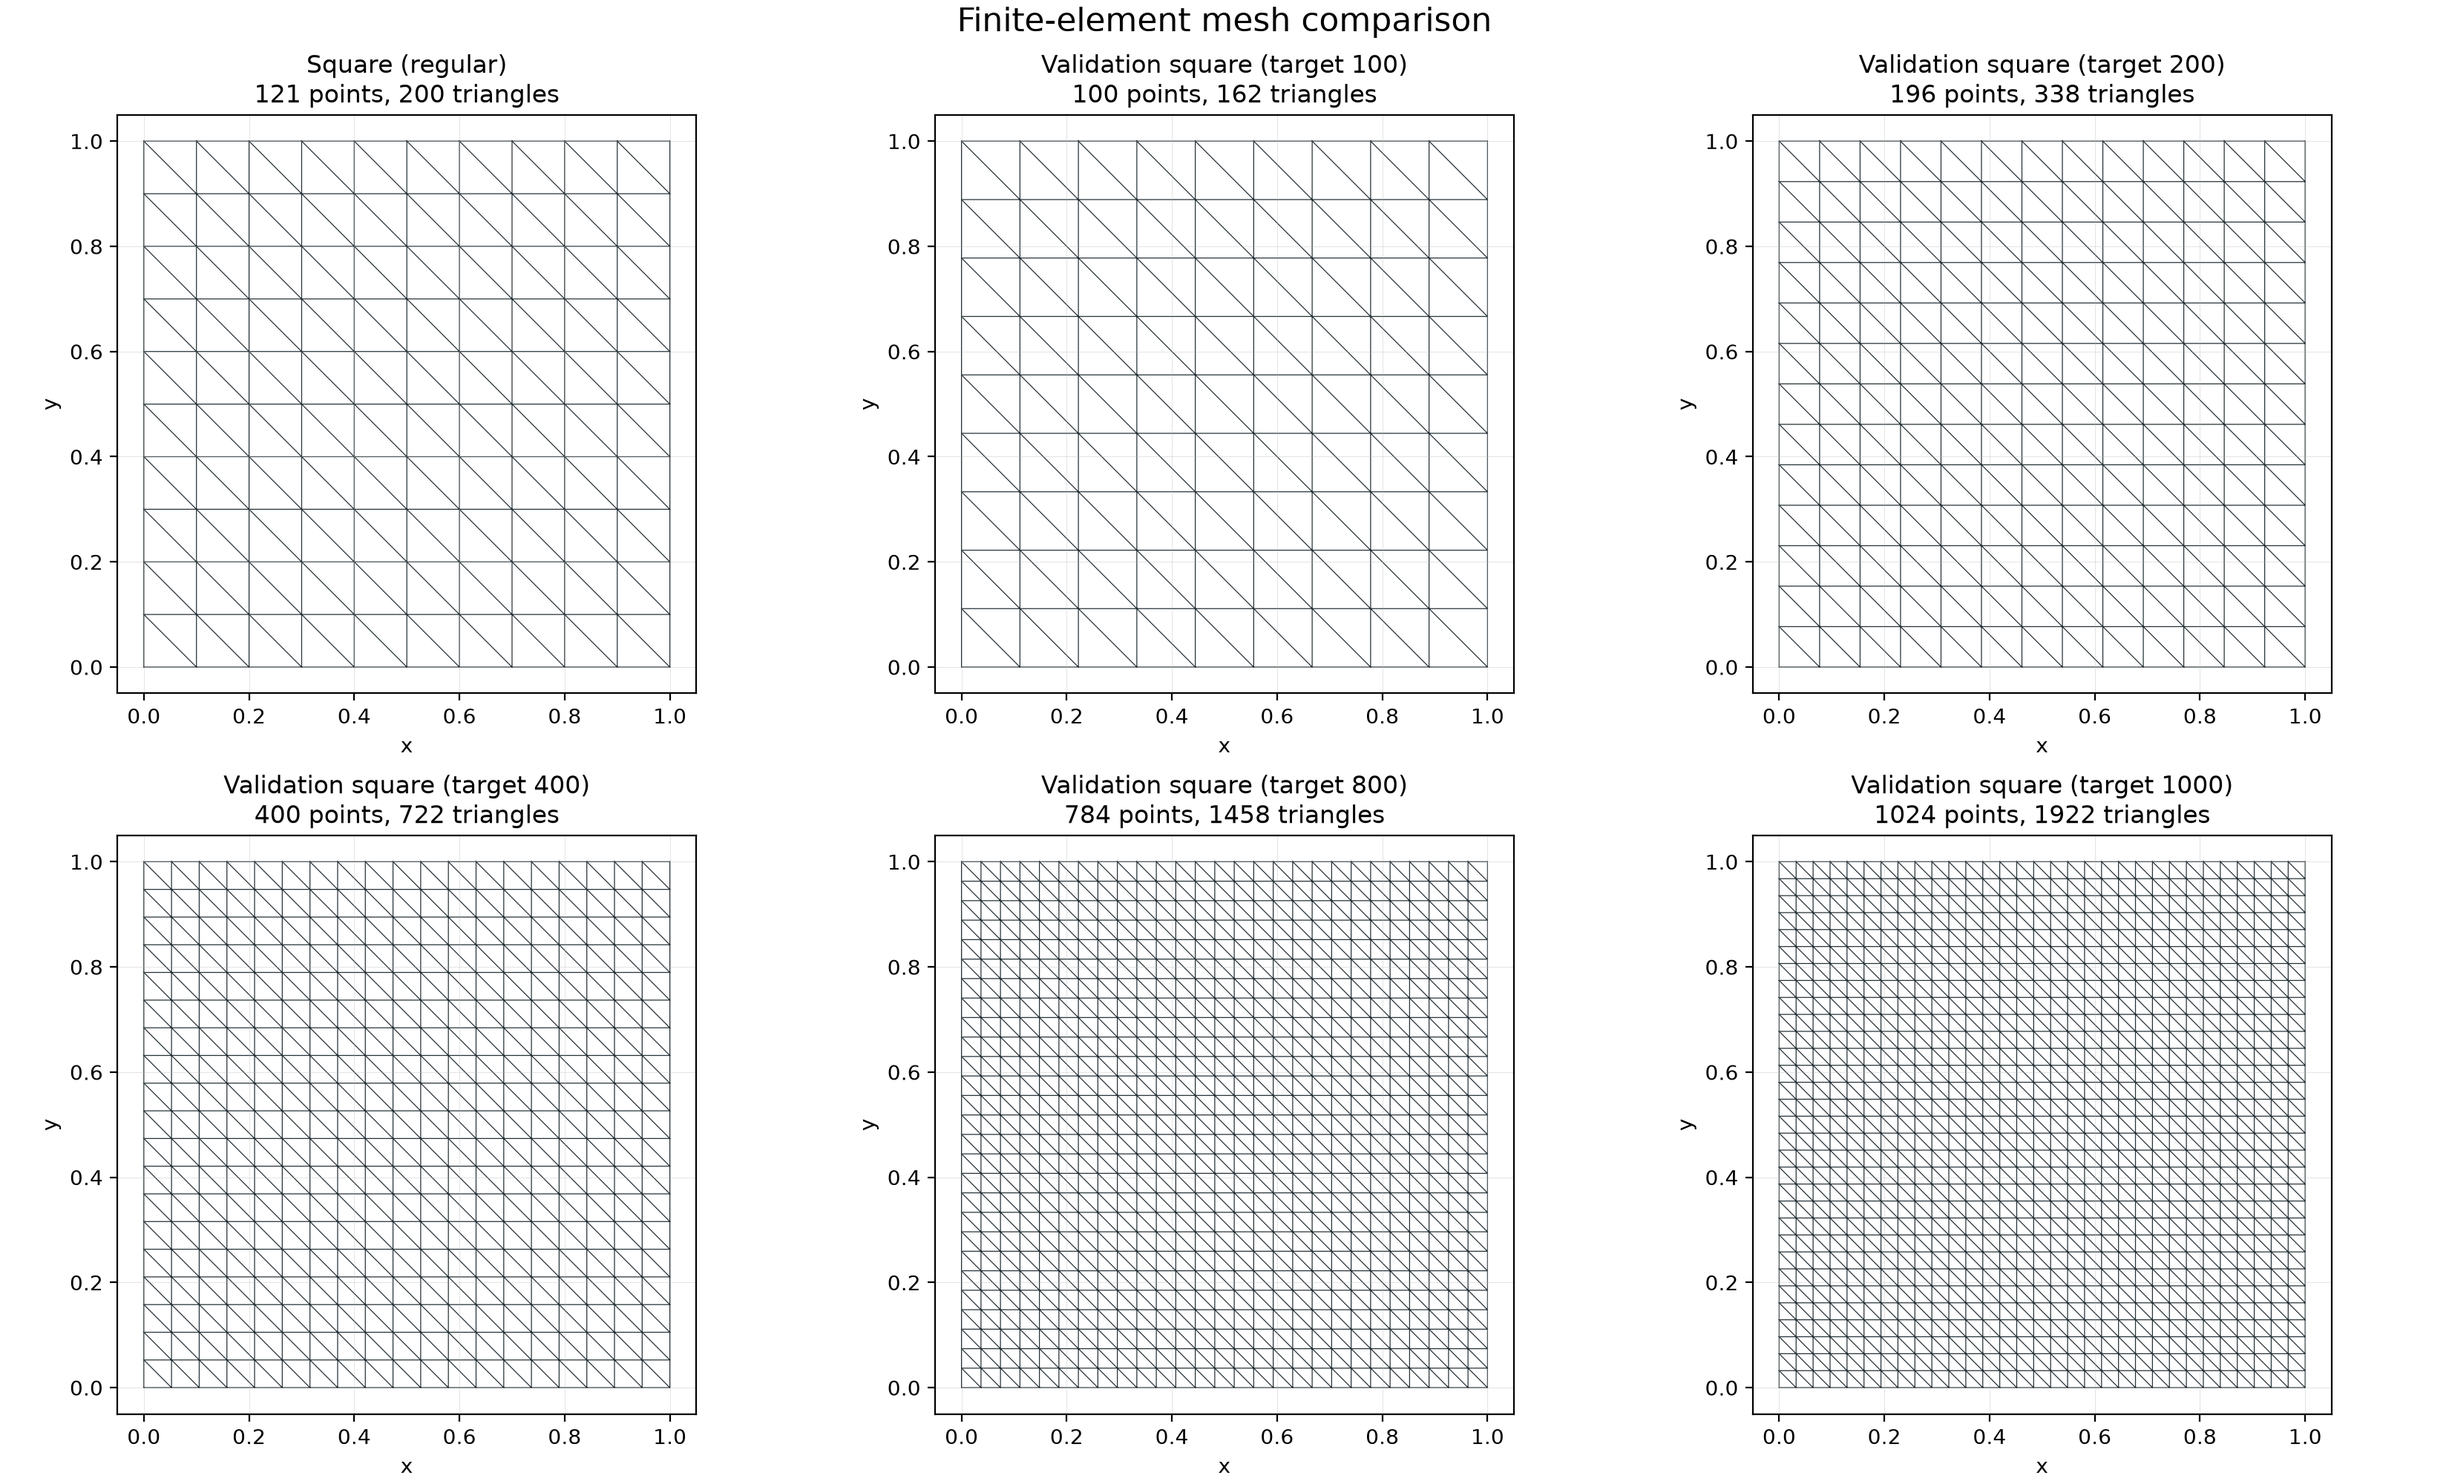
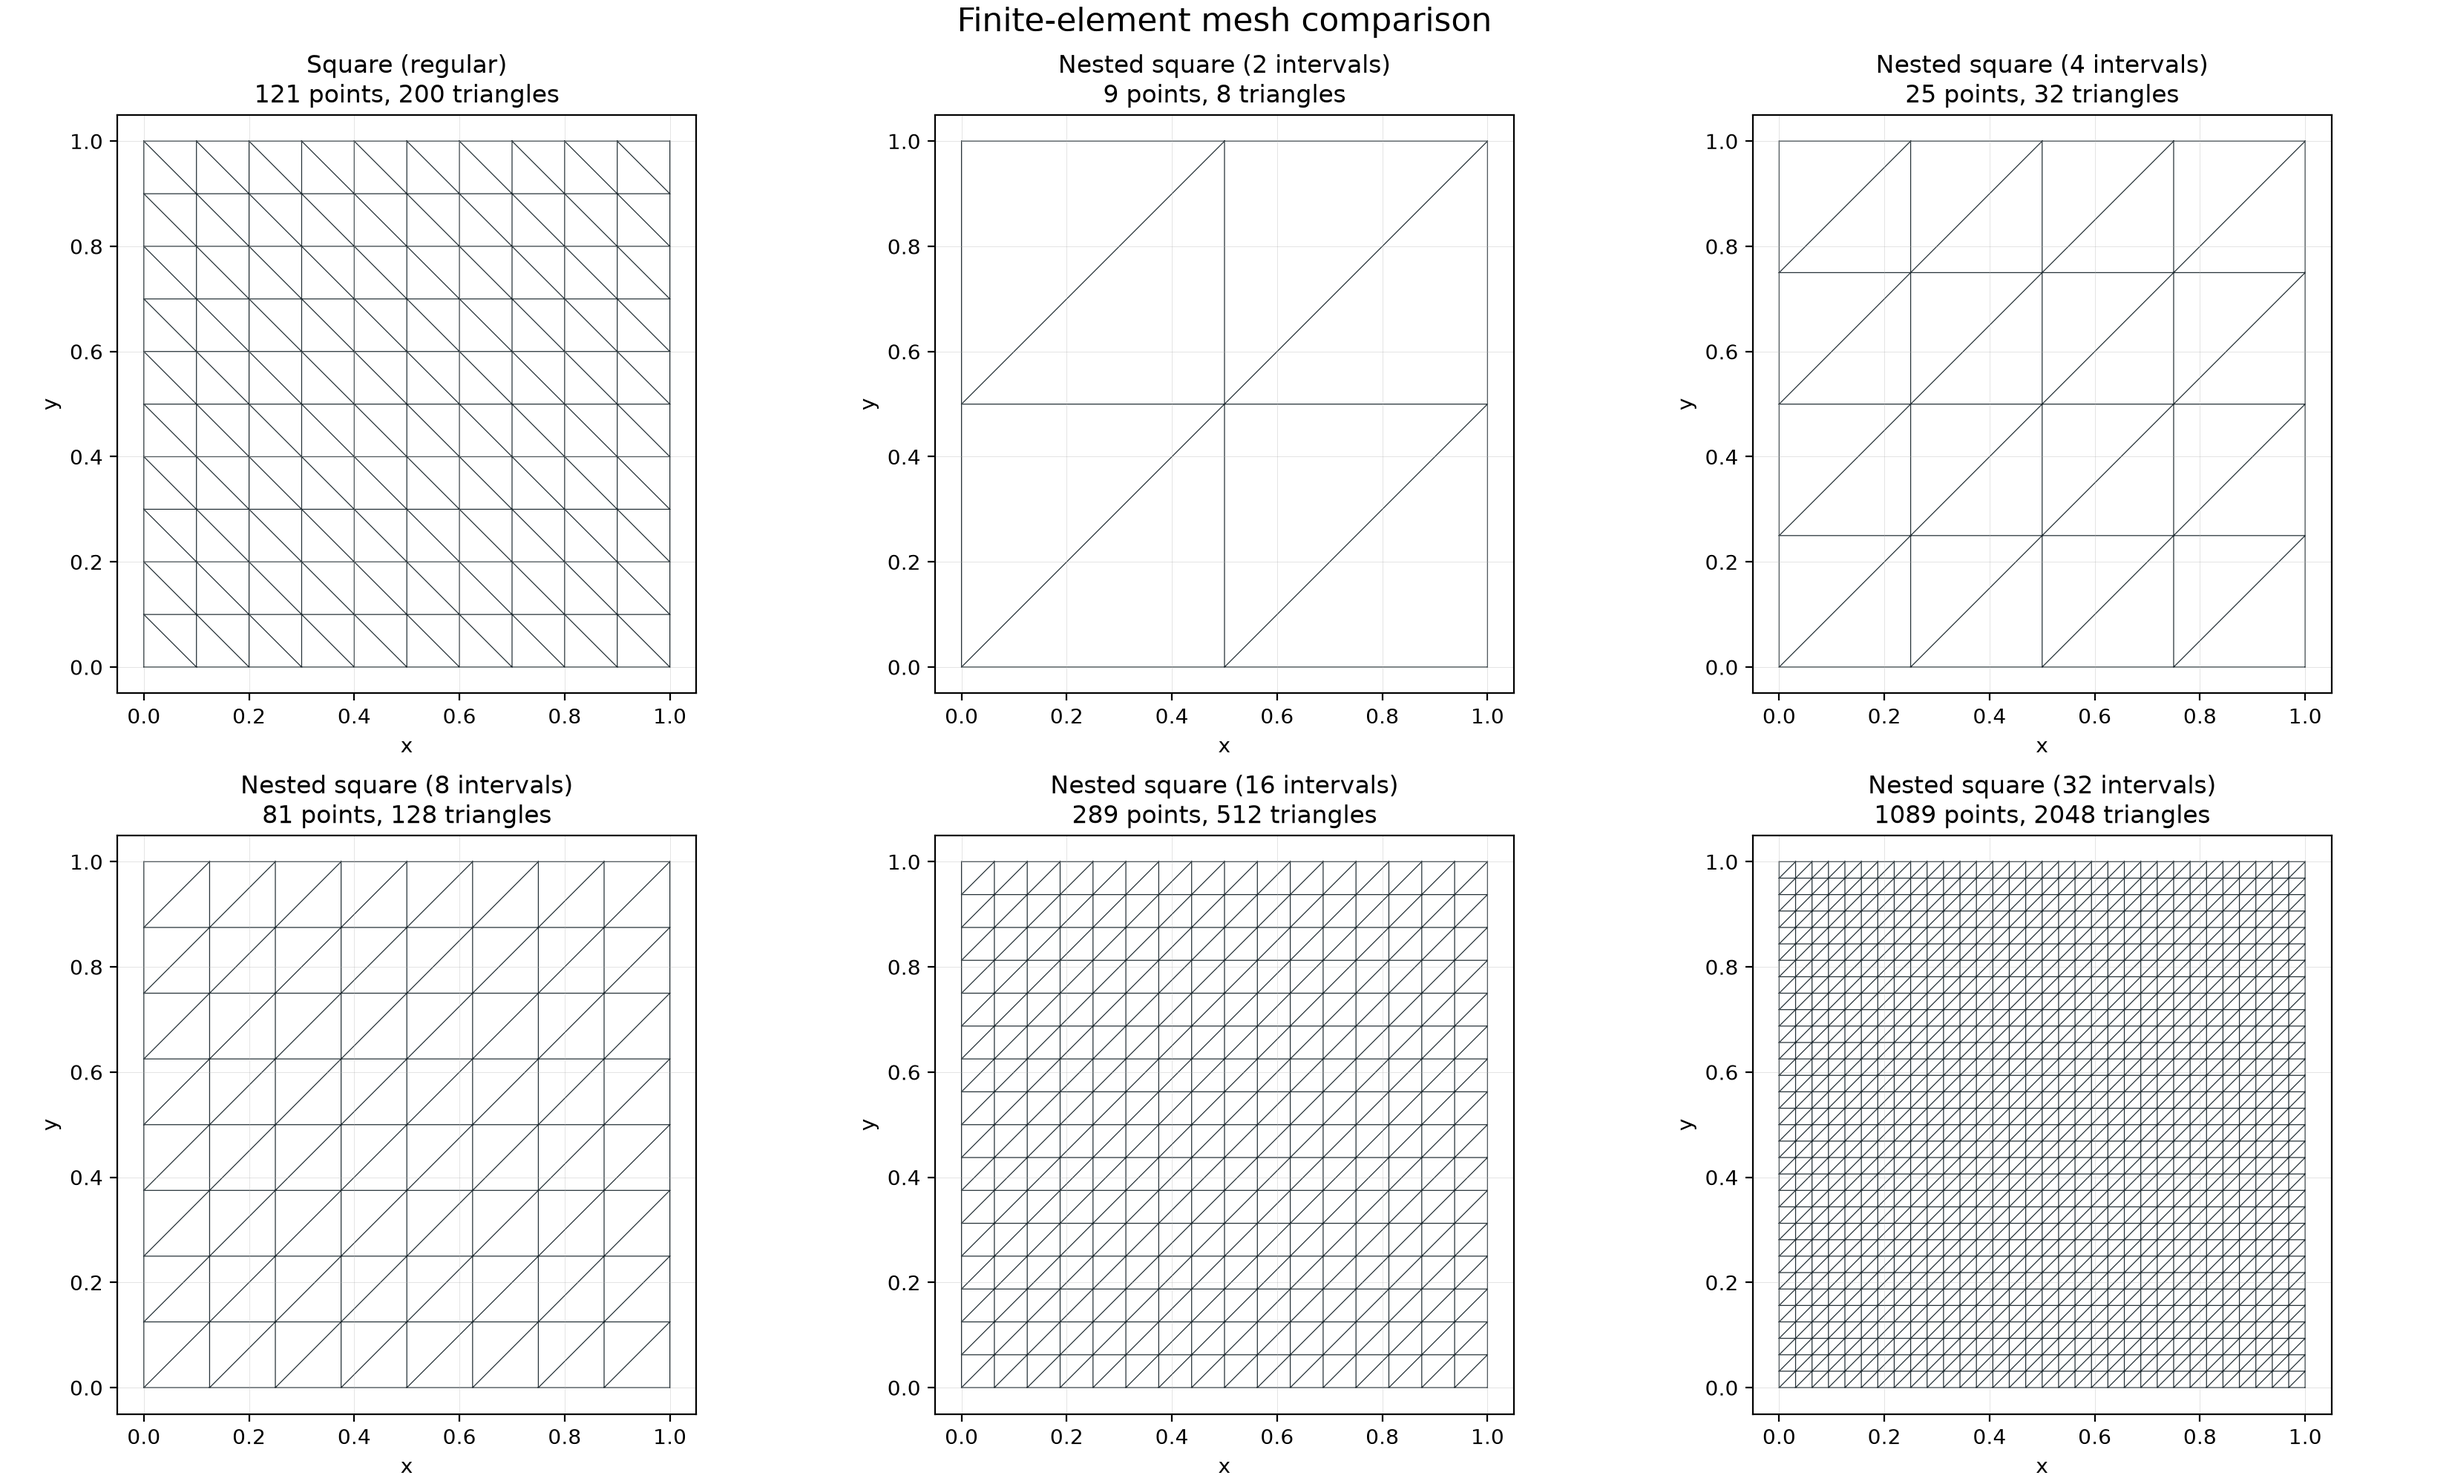
plotting fix

diff --git a/mesh_compare.py b/mesh_compare.py
@@ -6,6 +6,9 @@ import matplotlib.pyplot as plt
 from mesh_utils import load_gmsh_tri
 
 
+PROJECT_DIR = Path(__file__).resolve().parent
+DEFAULT_OUTPUT = PROJECT_DIR / "figures" / "mesh_comparison_refinement.png"
+
 DEFAULT_MESHES = {
     "Square (regular)": "square_regular_mesh.msh",
     "Nested square (2 intervals)": "meshes_diffusion_refinement/square_nested_2.msh",
@@ -46,14 +49,13 @@ def main() -> None:
     parser = argparse.ArgumentParser(description="Plot a comparison of project meshes.")
     parser.add_argument(
         "--output",
-        default="mesh_comparison_refinement.png",
-        help="Output image path (default: mesh_comparison_refinement.png).",
+        default=str(DEFAULT_OUTPUT),
+        help=f"Output image path (default: {DEFAULT_OUTPUT}).",
     )
     args = parser.parse_args()
 
-    project_root = Path(__file__).parent
     meshes = {
-        title: str(project_root / filename)
+        title: str(PROJECT_DIR / filename)
         for title, filename in DEFAULT_MESHES.items()
     }
     plot_mesh_comparison(meshes, args.output)
